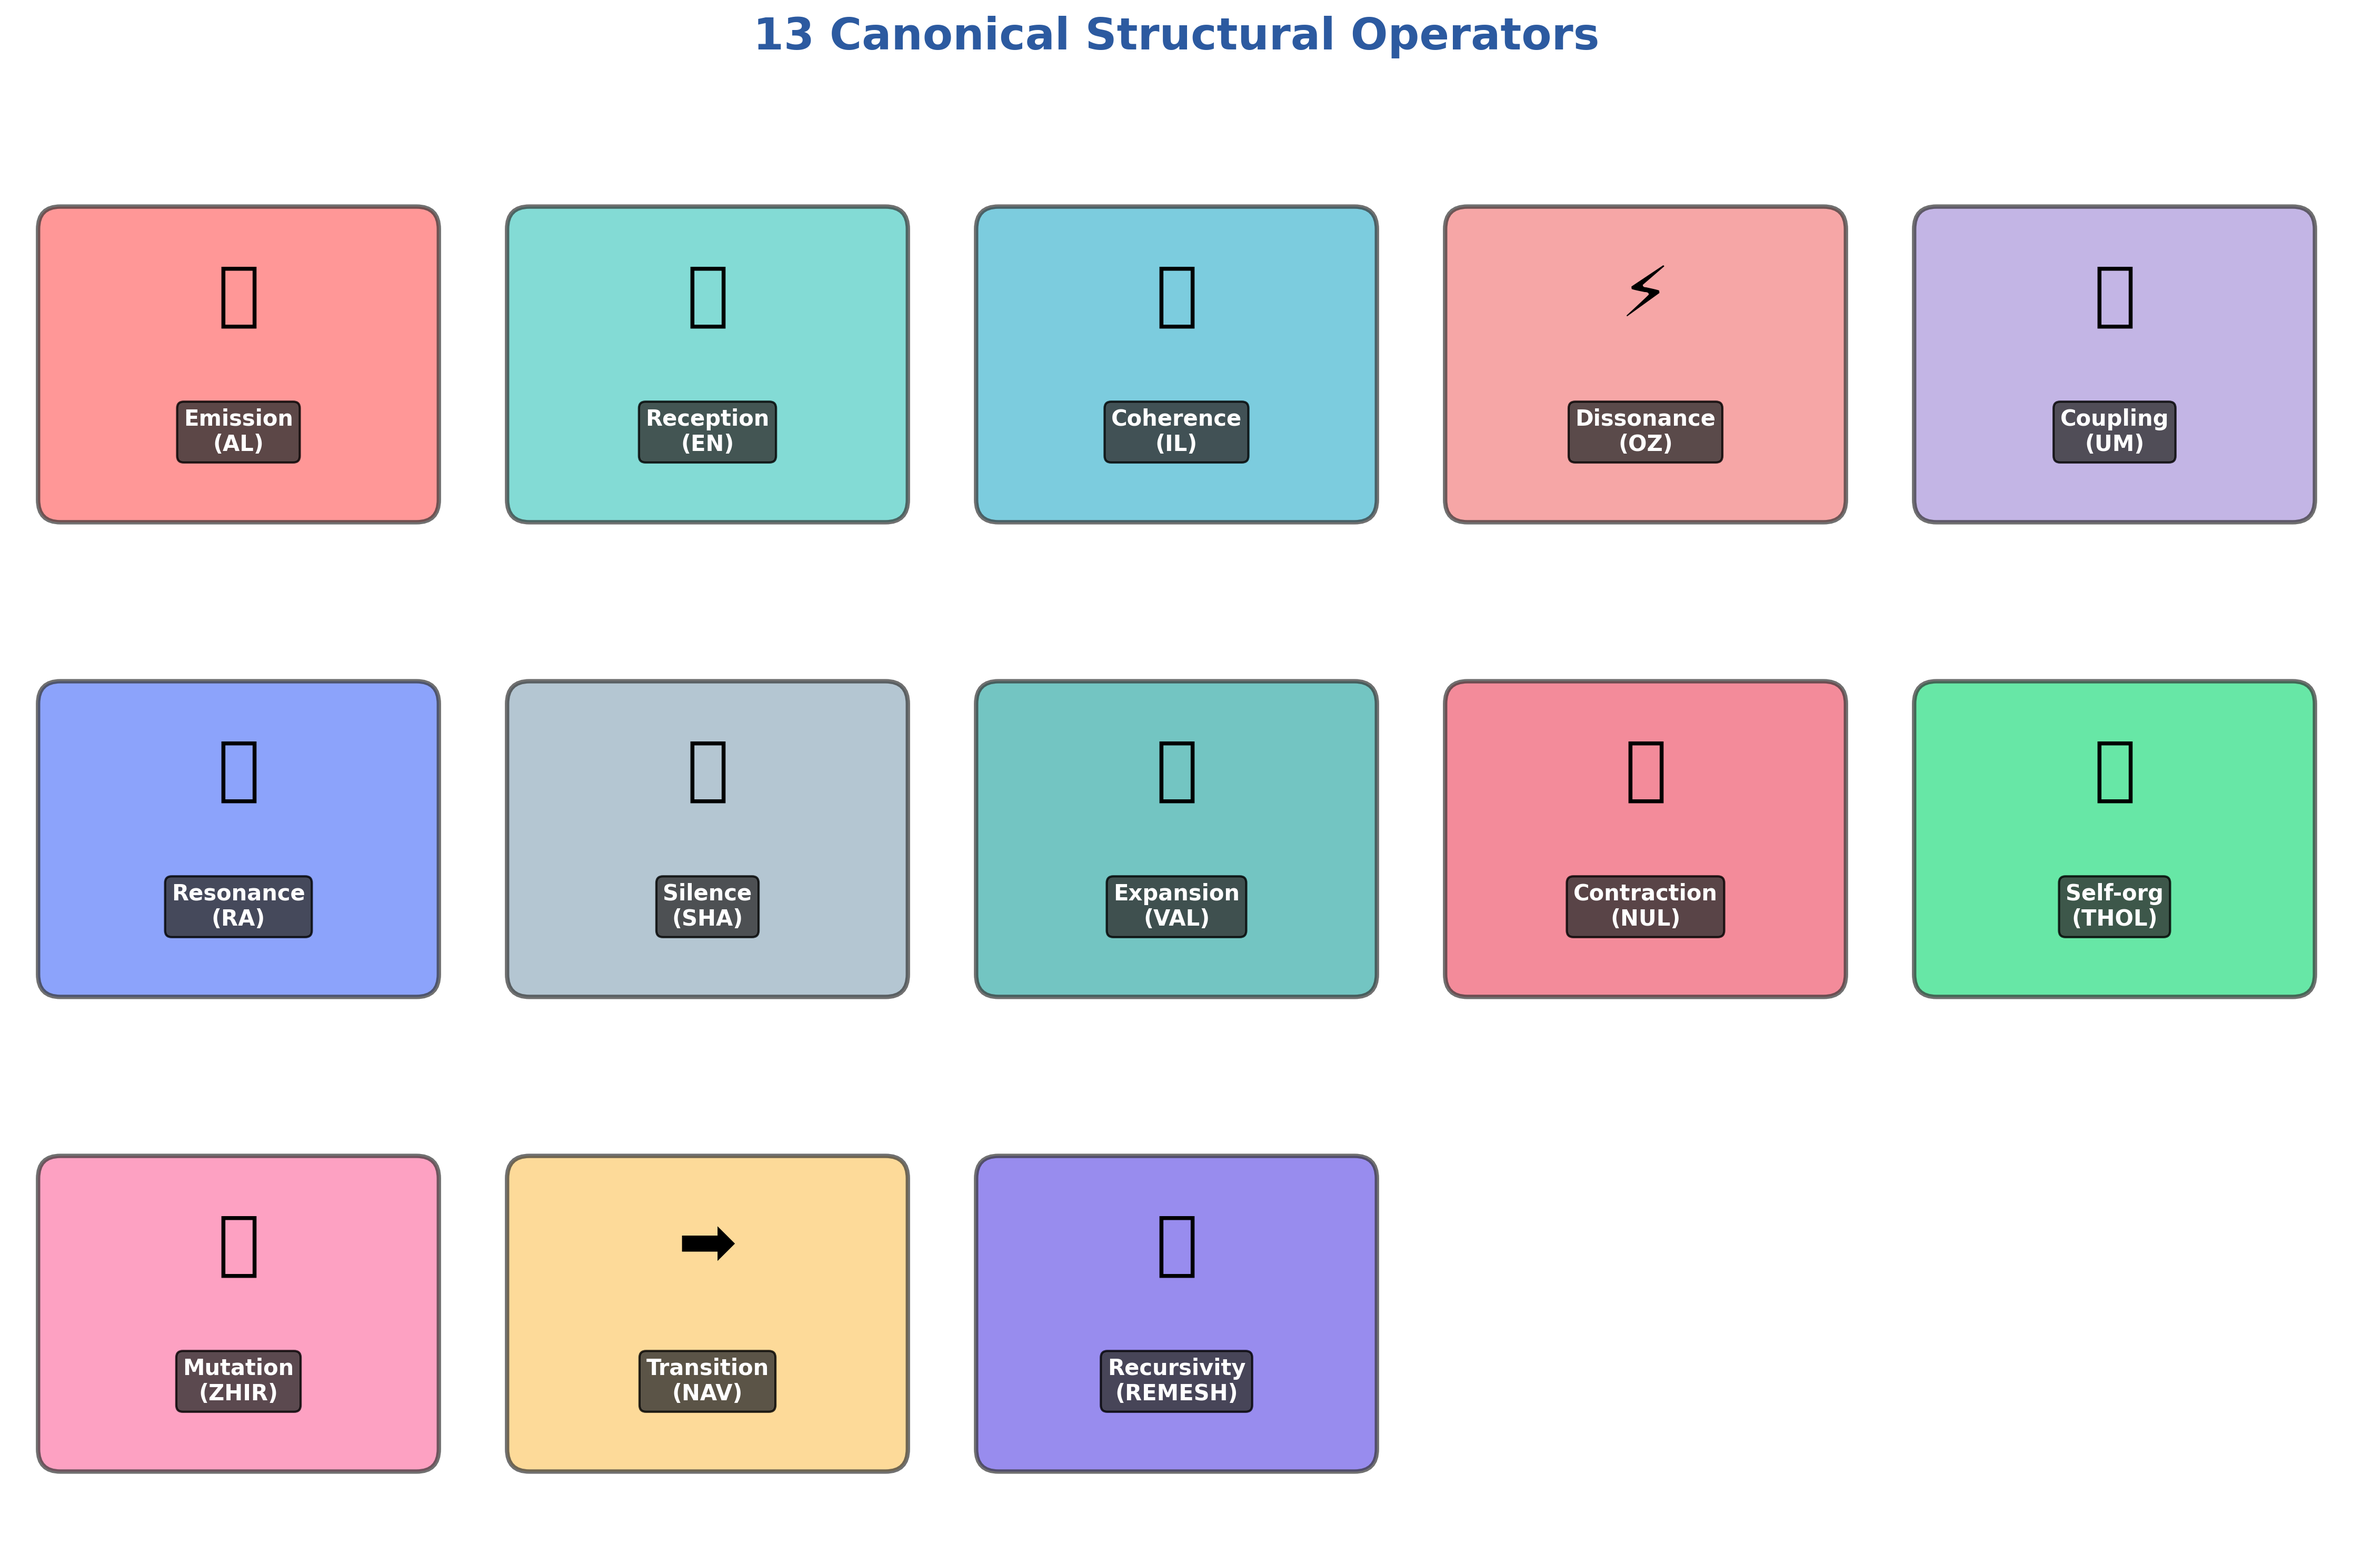
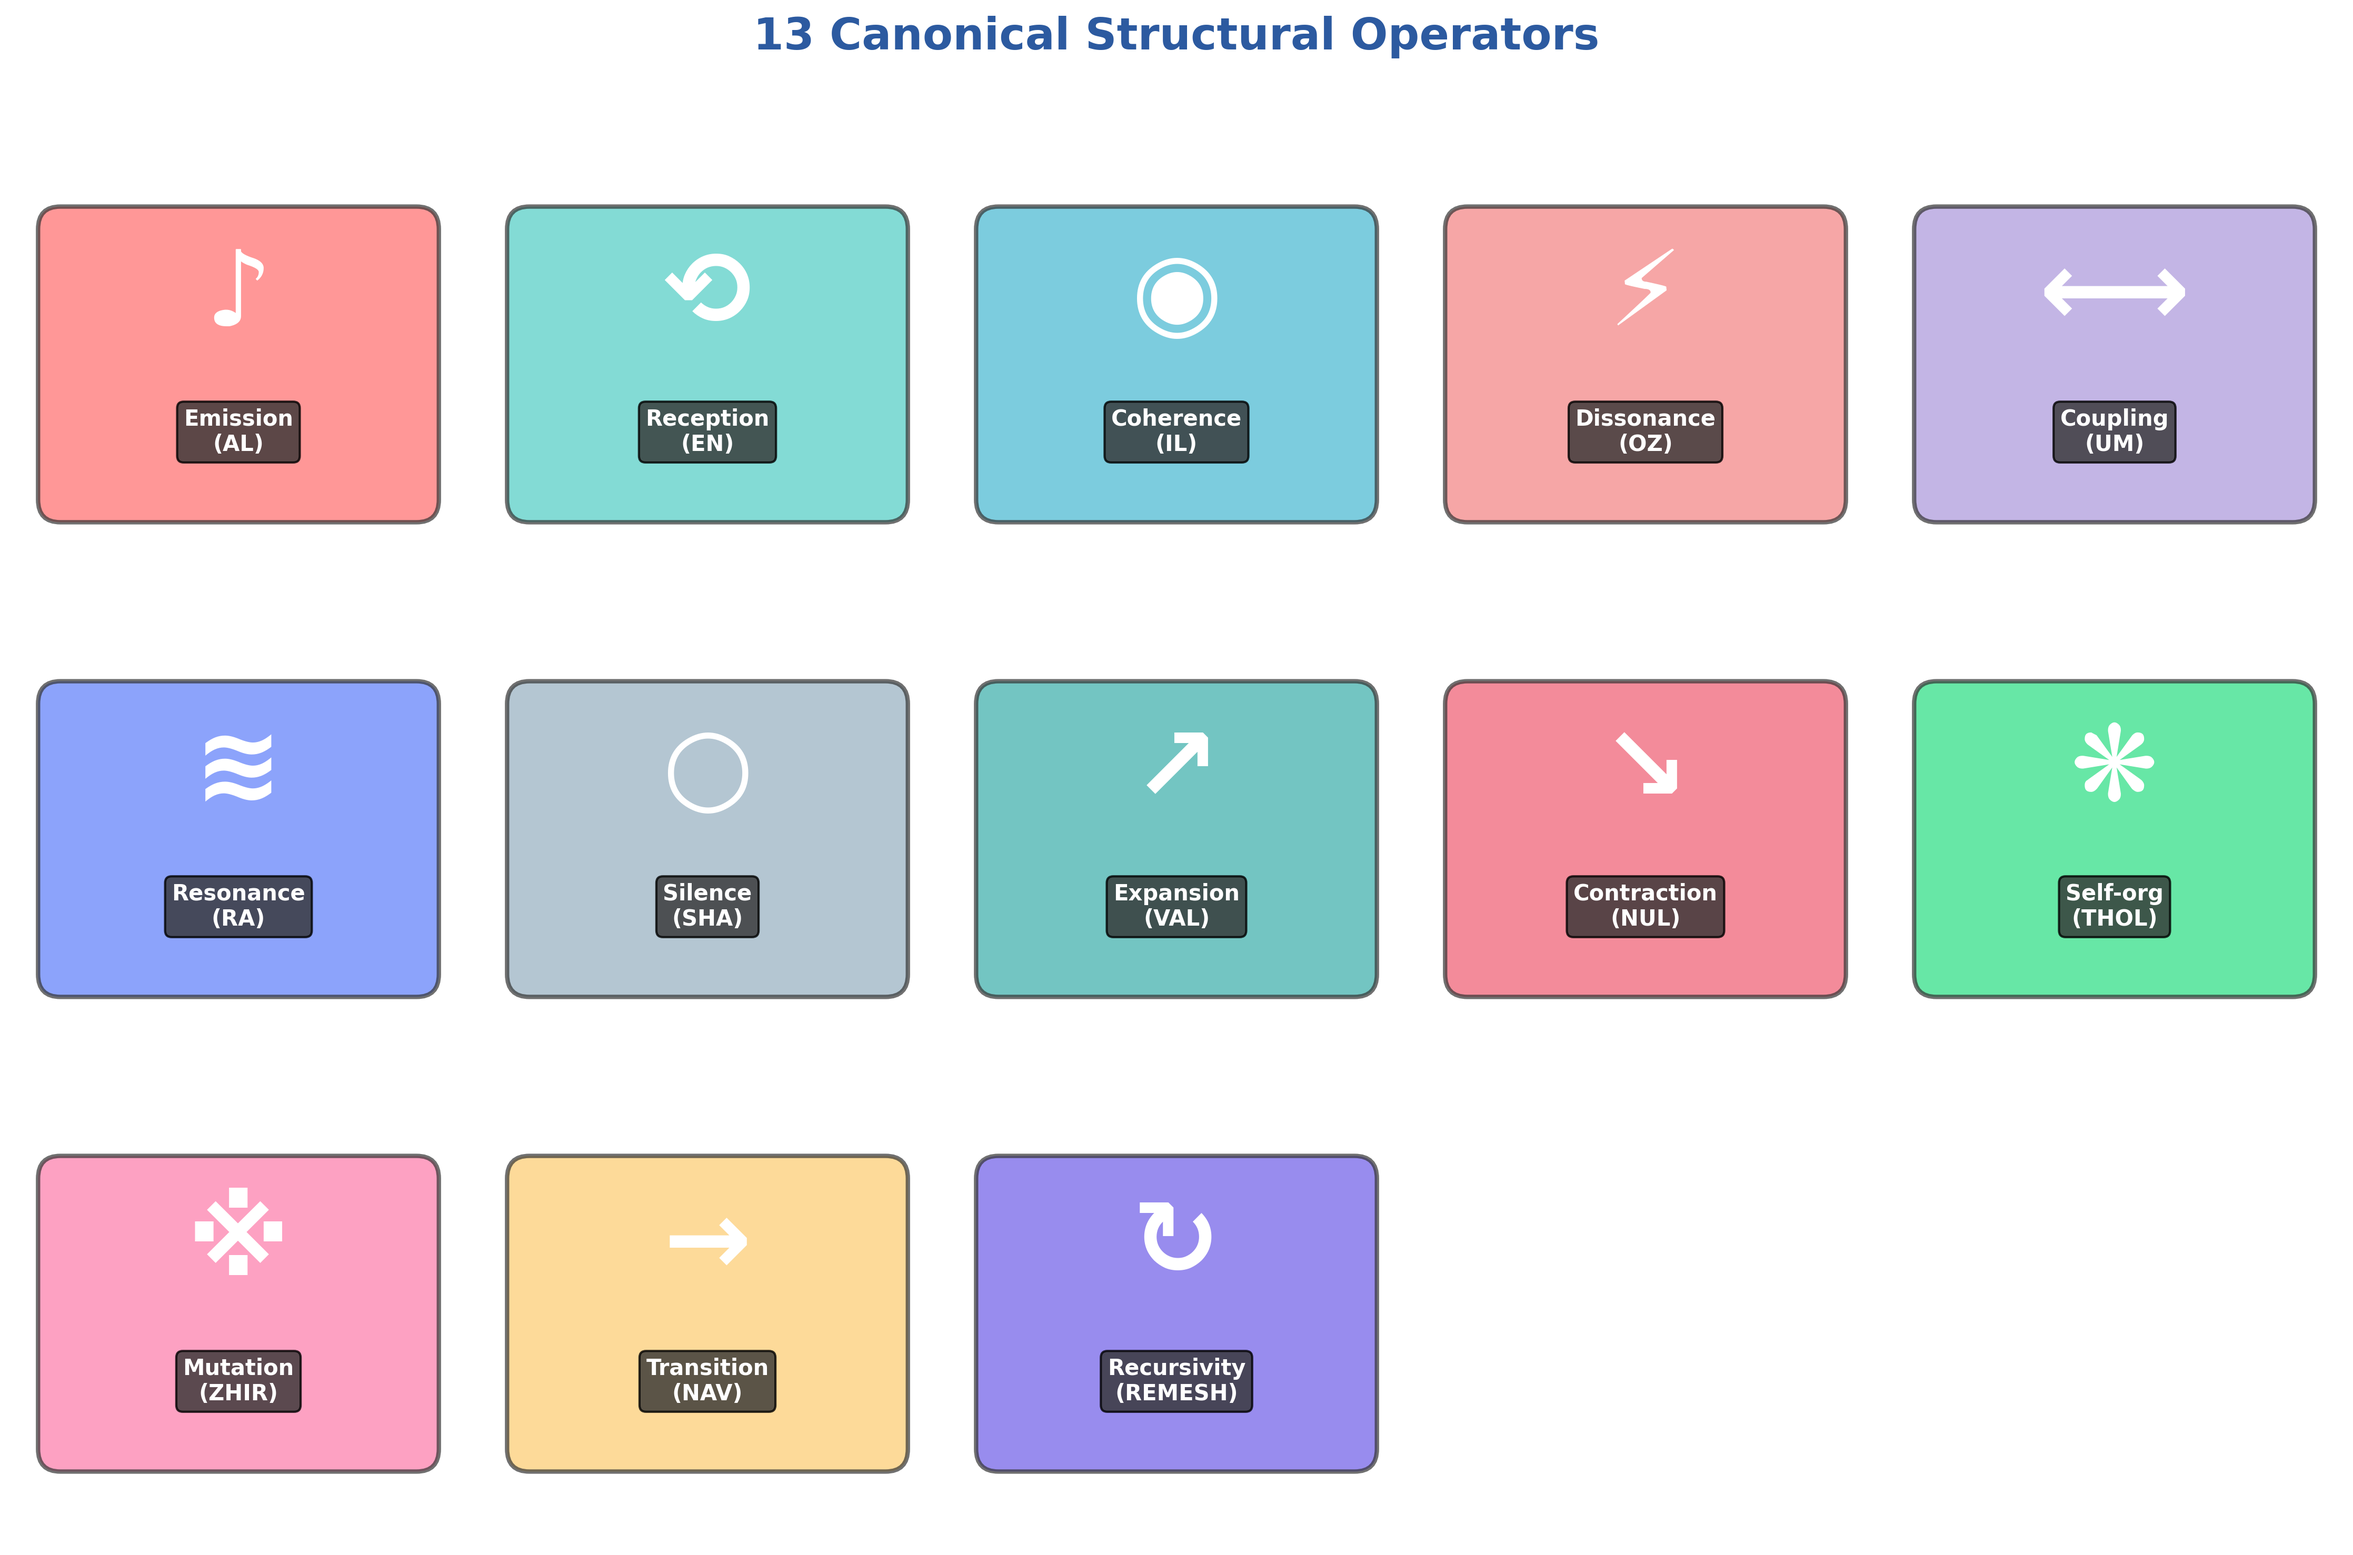
Fix structural operators symbols to use standard Unicode characters

diff --git a/wiki/generate_graphics.py b/wiki/generate_graphics.py
@@ -113,22 +113,22 @@ def create_structural_operators_diagram():
     axes = axes.flatten()
     
     operators = [
-        ('Emission\n(AL)', '🎵', '#ff6b6b'),
-        ('Reception\n(EN)', '📡', '#4ecdc4'),
-        ('Coherence\n(IL)', '🔒', '#45b7d1'),
+        ('Emission\n(AL)', '♪', '#ff6b6b'),
+        ('Reception\n(EN)', '⟲', '#4ecdc4'),
+        ('Coherence\n(IL)', '◉', '#45b7d1'),
         ('Dissonance\n(OZ)', '⚡', '#f38181'),
-        ('Coupling\n(UM)', '🔗', '#aa96da'),
-        ('Resonance\n(RA)', '🌊', '#5c7cfa'),
-        ('Silence\n(SHA)', '🔇', '#95afc0'),
-        ('Expansion\n(VAL)', '📈', '#38ada9'),
-        ('Contraction\n(NUL)', '📉', '#ee5a6f'),
-        ('Self-org\n(THOL)', '🌱', '#26de81'),
-        ('Mutation\n(ZHIR)', '🧬', '#fd79a8'),
-        ('Transition\n(NAV)', '➡', '#fdcb6e'),
-        ('Recursivity\n(REMESH)', '🔄', '#6c5ce7'),
+        ('Coupling\n(UM)', '⟷', '#aa96da'),
+        ('Resonance\n(RA)', '≋', '#5c7cfa'),
+        ('Silence\n(SHA)', '○', '#95afc0'),
+        ('Expansion\n(VAL)', '↗', '#38ada9'),
+        ('Contraction\n(NUL)', '↘', '#ee5a6f'),
+        ('Self-org\n(THOL)', '❋', '#26de81'),
+        ('Mutation\n(ZHIR)', '※', '#fd79a8'),
+        ('Transition\n(NAV)', '→', '#fdcb6e'),
+        ('Recursivity\n(REMESH)', '↻', '#6c5ce7'),
     ]
     
-    for idx, (name, emoji, color) in enumerate(operators):
+    for idx, (name, symbol, color) in enumerate(operators):
         ax = axes[idx]
         
         # Create operator box
@@ -140,9 +140,9 @@ def create_structural_operators_diagram():
                                       alpha=0.7)
         ax.add_patch(rect)
         
-        # Add emoji
-        ax.text(0.5, 0.65, emoji, ha='center', va='center',
-               fontsize=32)
+        # Add symbol
+        ax.text(0.5, 0.65, symbol, ha='center', va='center',
+               fontsize=48, fontweight='bold', color='white')
         
         # Add operator name
         ax.text(0.5, 0.35, name, ha='center', va='center',

diff --git a/wiki/INDEX.md b/wiki/INDEX.md
@@ -1,0 +1,102 @@
+# TNFR Wiki - Quick Reference
+
+![Wiki Graphics Preview](wiki_graphics_preview.png)
+
+## 📖 Wiki Pages
+
+Start here: **[Home](Home.md)**
+
+### Main Pages
+
+| Page | Description | Content |
+|------|-------------|---------|
+| **[Home](Home.md)** | Main landing page | Overview, installation, quick example, navigation |
+| **[Getting Started](Getting-Started.md)** | First steps with TNFR | Installation, tutorials, workflow, troubleshooting |
+| **[Core Concepts](Core-Concepts.md)** | Theory and fundamentals | NFRs, nodal equation, operators, metrics, fractality |
+| **[Examples](Examples.md)** | Real-world applications | Biology, social, AI, distributed systems, finance, physics |
+
+## 🎨 Visual Assets (5 Graphics)
+
+All graphics are high-resolution (300 DPI) and located in the `images/` directory:
+
+1. **network_resonance.png** - NFR nodes in a resonant network
+2. **structural_operators.png** - The 13 canonical operators
+3. **paradigm_comparison.png** - Traditional vs TNFR paradigms
+4. **coherence_metrics.png** - Metrics evolution over time (C(t), Si, ΔNFR, νf)
+5. **nodal_equation.png** - The canonical nodal equation explained
+
+## 📊 Statistics
+
+- **Total lines**: ~1,700 lines of markdown
+- **Total size**: ~1.8 MB (including graphics)
+- **Code examples**: 30+ executable Python examples
+- **Visualizations**: 5 custom-generated graphics
+- **Use cases**: 10+ domain-specific applications
+
+## 🚀 Quick Start
+
+```python
+from tnfr.sdk import TNFRNetwork
+
+# Create, activate, and measure a network
+network = TNFRNetwork("hello_world")
+results = (network
+    .add_nodes(10)
+    .connect_nodes(0.3, "random")
+    .apply_sequence("basic_activation", repeat=3)
+    .measure())
+
+print(results.summary())
+```
+
+## 🔧 Regenerating Graphics
+
+```bash
+cd wiki
+python generate_graphics.py
+```
+
+## 📝 Using This Wiki
+
+### For GitHub Wiki
+
+1. Navigate to repository's Wiki tab
+2. Create pages: Home, Getting-Started, Core-Concepts, Examples
+3. Copy content from .md files
+4. Upload images where referenced
+
+### For Documentation Site
+
+Add to `mkdocs.yml`:
+
+```yaml
+nav:
+  - Wiki:
+      - Home: wiki/Home.md
+      - Getting Started: wiki/Getting-Started.md
+      - Core Concepts: wiki/Core-Concepts.md
+      - Examples: wiki/Examples.md
+```
+
+### For Local Reading
+
+View markdown files directly on GitHub or with any markdown viewer.
+
+## 🎯 Design Principles
+
+- ✅ **English only** per TNFR guidelines
+- ✅ **Visual-first** approach with lots of diagrams
+- ✅ **Paradigm-aligned** with strict TNFR concepts
+- ✅ **Beginner-friendly** progressive complexity
+- ✅ **Code-heavy** with executable examples
+- ✅ **Self-contained** pages work independently
+
+## 🔗 External Resources
+
+- **Full Documentation**: https://tnfr.netlify.app
+- **GitHub Repository**: https://github.com/fermga/TNFR-Python-Engine
+- **PyPI Package**: https://pypi.org/project/tnfr/
+
+---
+
+**Start exploring**: [→ Go to Home Page](Home.md)
